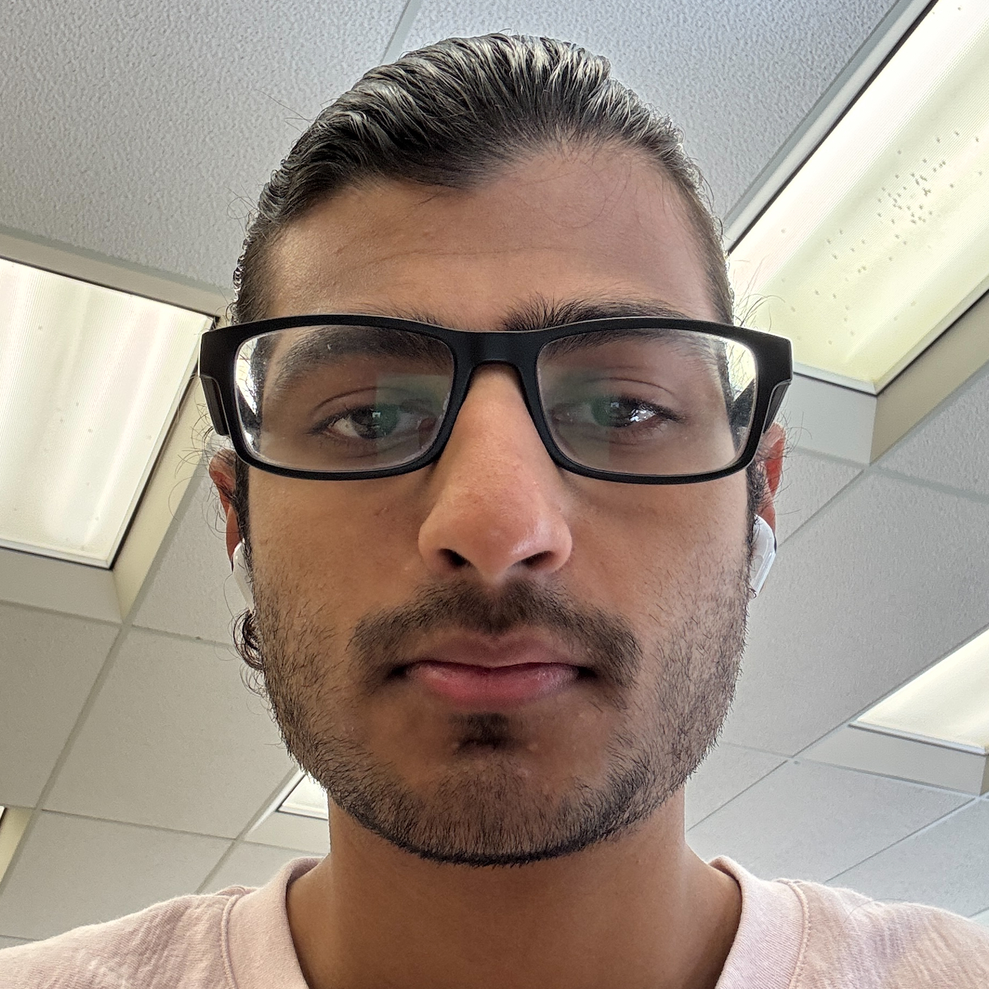
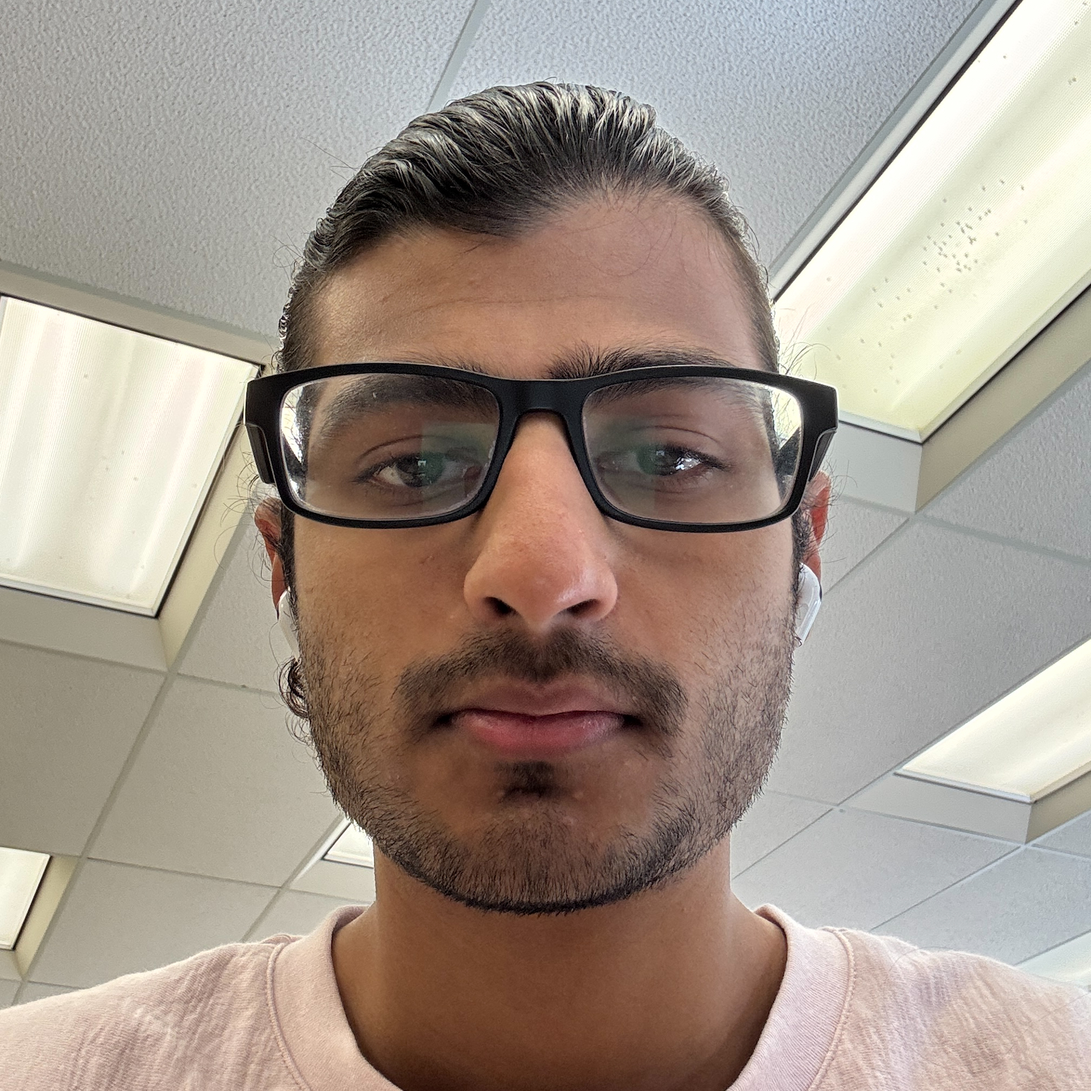
Readded pfp

diff --git a/index.html b/index.html
@@ -15,7 +15,7 @@
   <div class="container">
     <!-- Image and name container. Put your replacement photo—which you should crop to be square—in the images folder, then change the source attribute to images/yourportraitfilename.jpg. This path says, "Look in the images folder for yourportraitfilename.jpg." Be sure to change the alt text, too. -->
     <div class="image-container">
-      <img src="images/pfp.jpg" alt="Photo of Jayden Patel>
+      <img src="images/pfp.jpg" alt="Photo of Jayden Patel">
     </div>
     <div class="intro">
       I'm <span class="name"><strong>Jayden Patel</strong></span>, a Junior and future AI developer. Currently learning website development.
